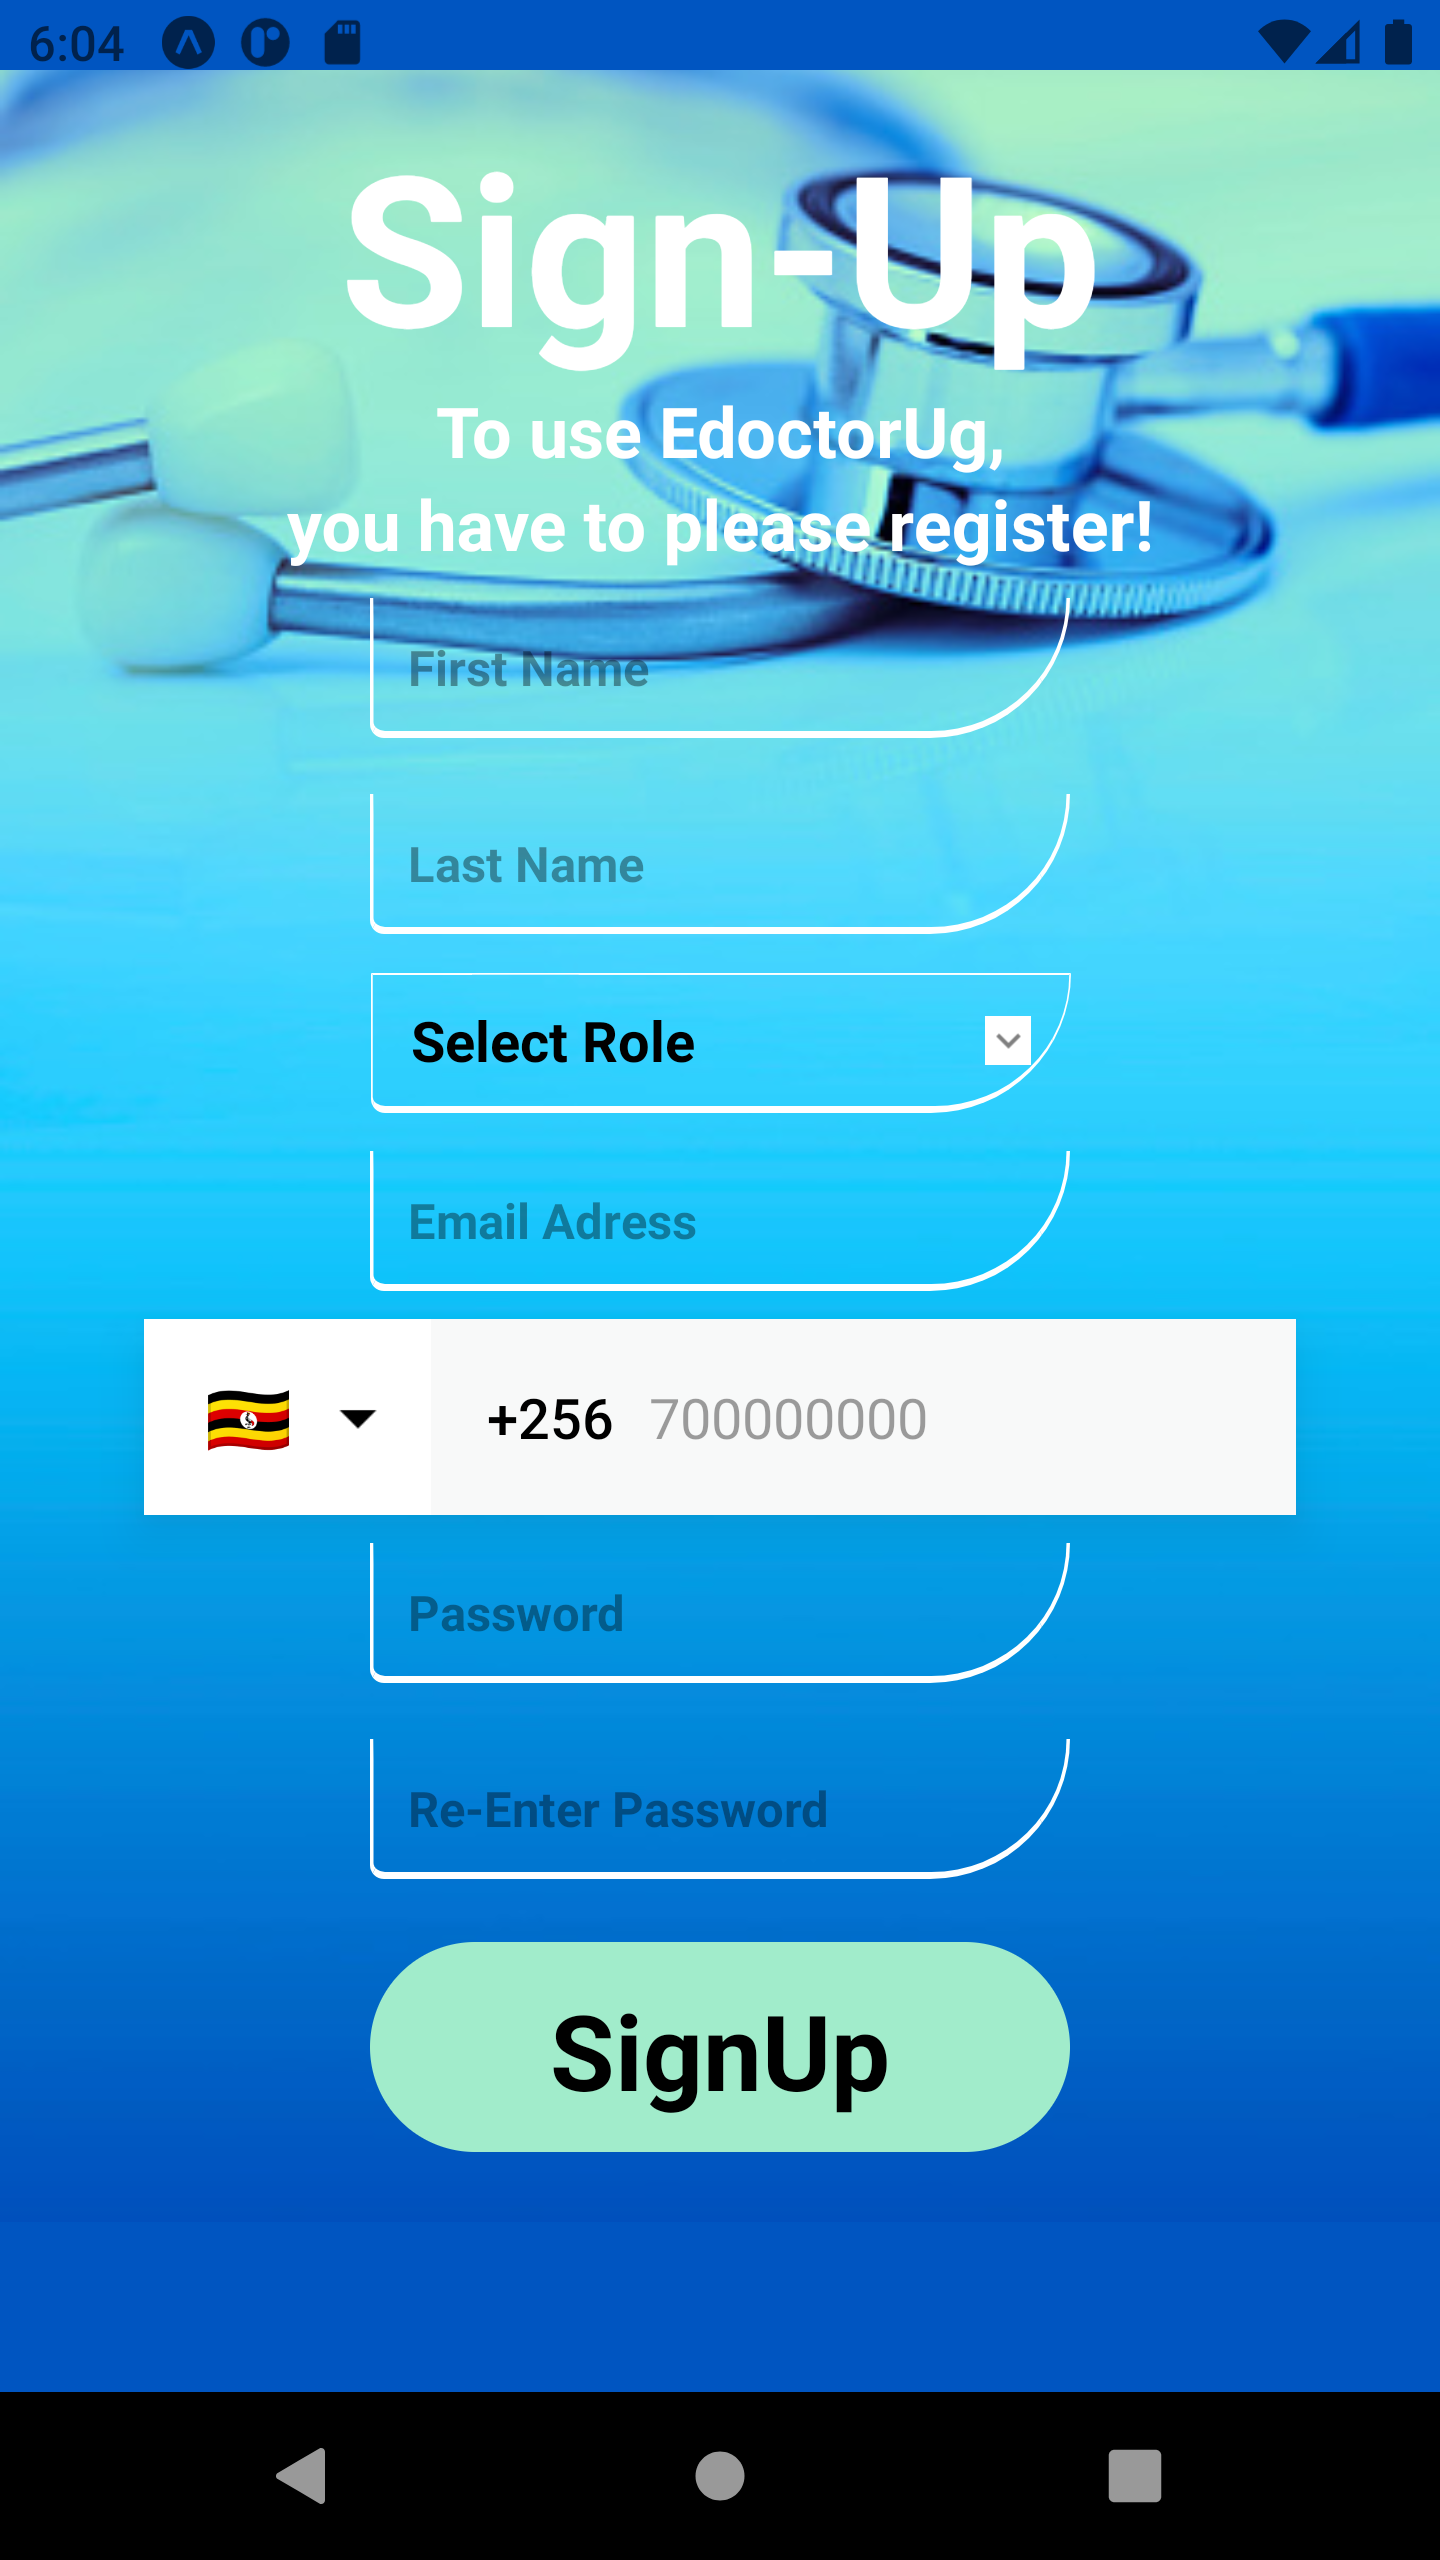
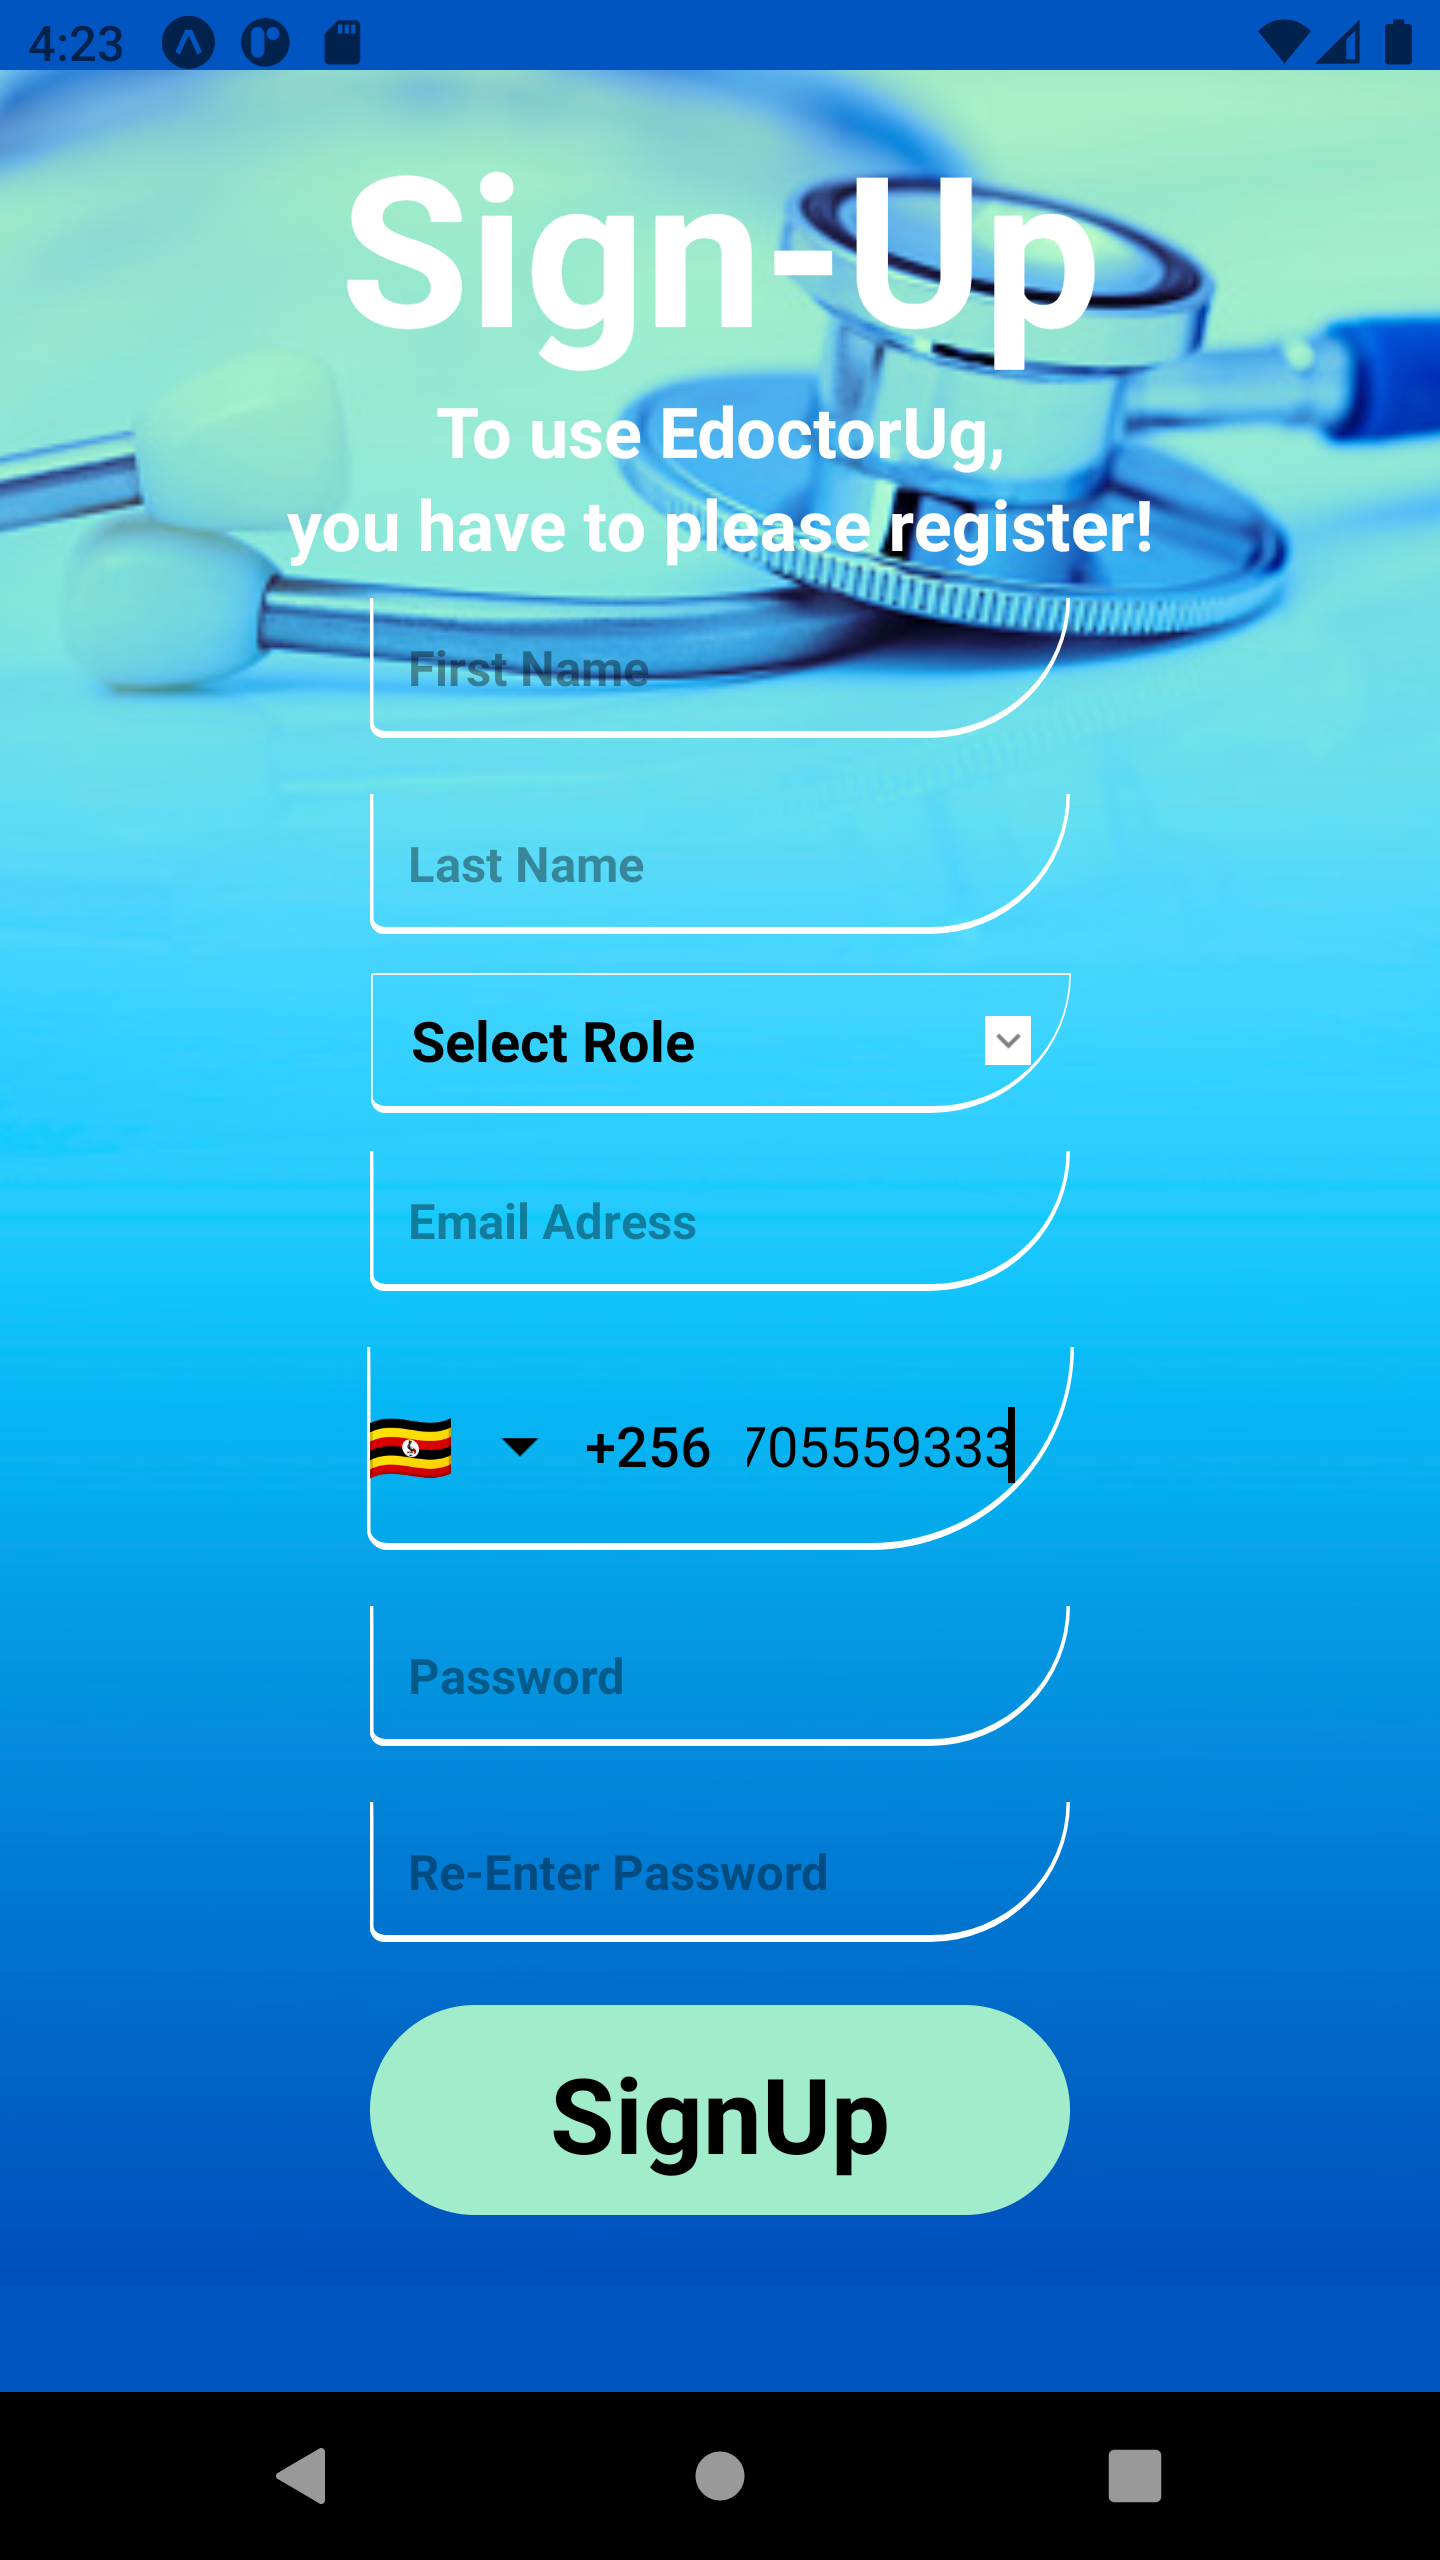
Fixed phone input to match design
Changes to be committed:

modified:   App.js
modified:   package-lock.json
modified:   screenshots/first load.png
modified:   screenshots/signup full view.png

diff --git a/App.js b/App.js
@@ -162,22 +162,35 @@ export default function App() {
               // value={email}
               placeholder="Email Adress"
             />
-            <View>
-            <View
-              // style={{
-              //   width: 100,
-              //   height: 60,
-              //   fontWeight: "bold",
-              //   color: "white",
-              //   textAlign: "center",
-              //   fontSize: 20,
-              //   marginRight: 200,  
-              //   borderWidth: 1,
-              //   borderRadius: 20,
-              // }}
-            >
+            <View style={{
+              margin: 8,
+              borderBottomWidth: 2,
+              borderLeftWidth: 1,
+              borderRightWidth: 1,
+              borderColor: "white",
+    
+              borderBottomLeftRadius: 6,
+              borderBottomRightRadius: 60,
+              
+            }}>
               <PhoneInput
                 // style={styles.phone}
+                containerStyle ={{
+                  width: 200,
+                  backgroundColor: null,
+
+                  
+                }}
+                flagButtonStyle={{
+                  width: 45,
+                  
+
+                }}
+                textContainerStyle={{
+                  backgroundColor: null,
+                  fontWeight: "bold",
+
+                }}
                 useRef={phoneInput}
                 defaultValue={valuecountry}
                 defaultCode="UG"
@@ -189,11 +202,9 @@ export default function App() {
                 onChangeFormattedText={(text) => {
                   setFormattedValue(text);
                 }}
-                autoFocus
-                withShadow
+              
+                
               />
-            </View>
-
             </View>
             
             <TextInput
